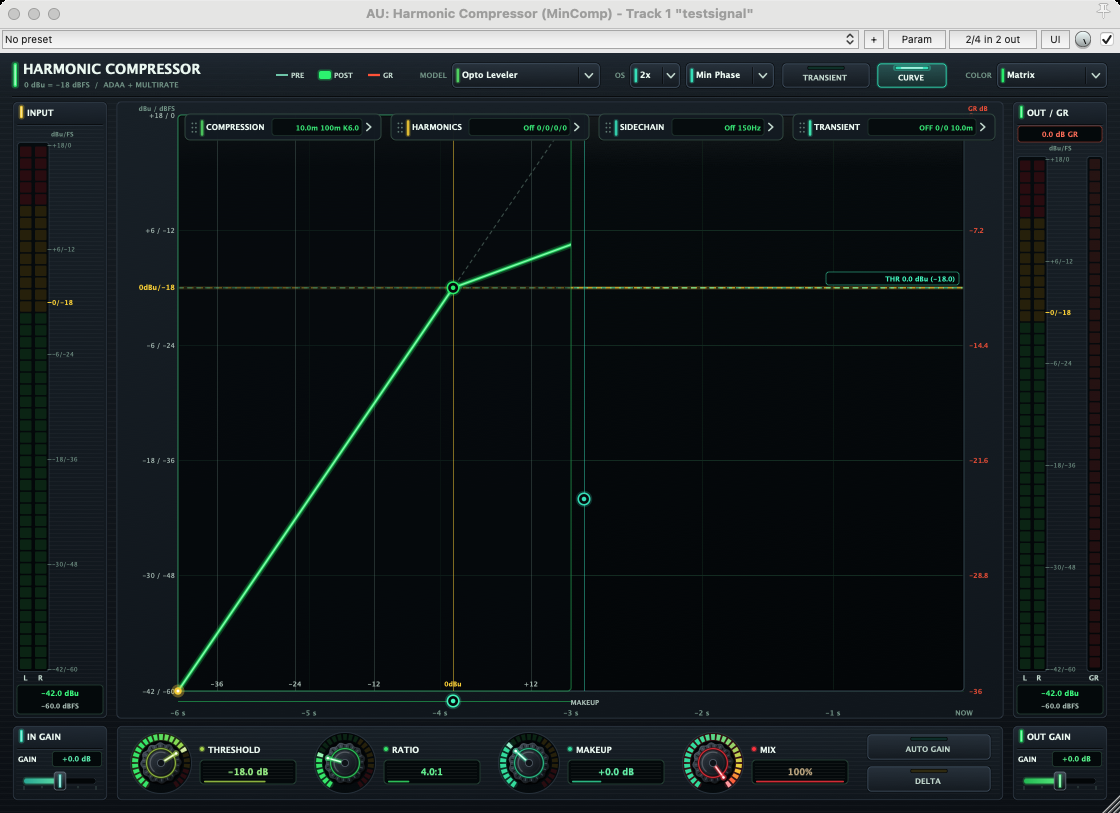
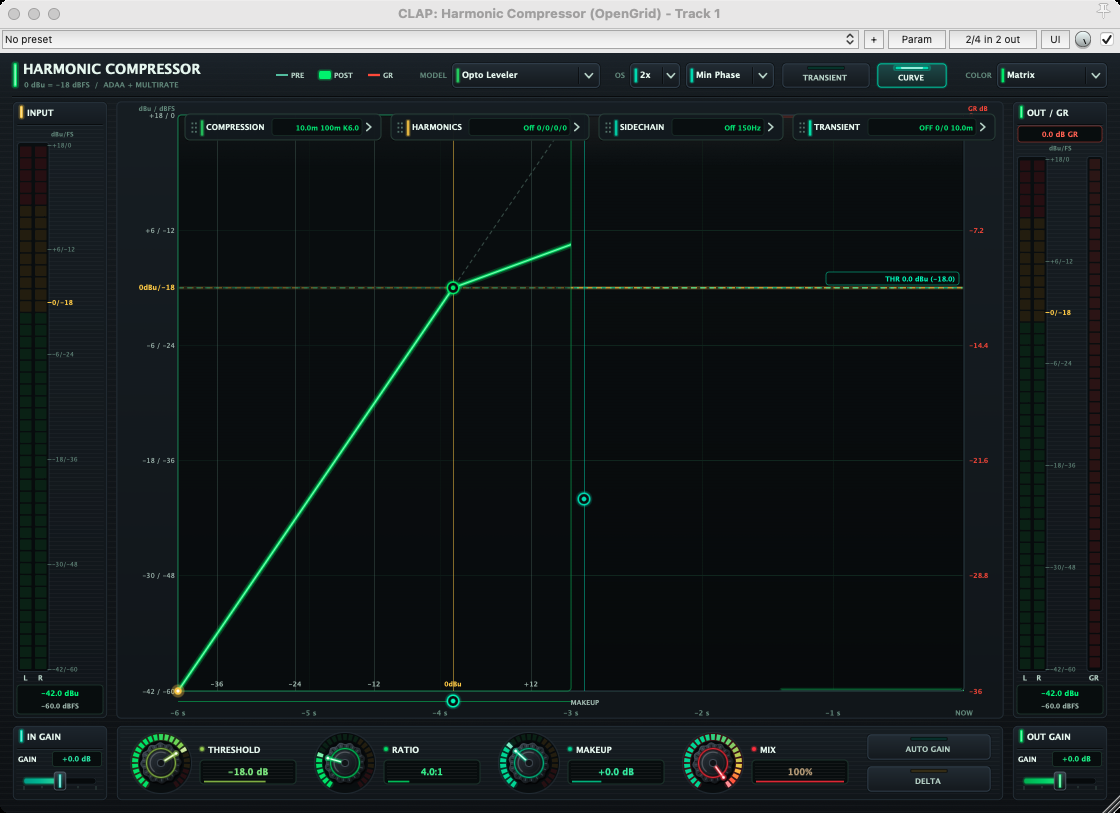
Manual: real REAPER capture of the shipped 1.5.3 CLAP
The host-window picture was the old frame with the new editor pasted in, so
its title still showed the former manufacturer name. It is now a hidden-window
capture of REAPER running the signed 1.5.3 CLAP. The 1.5.3 PDF and installer
keep the earlier picture.

diff --git a/qa/2026-11-23-docs-1.5.3/compose_doc_screenshots.py b/qa/2026-11-23-docs-1.5.3/compose_doc_screenshots.py
@@ -1,8 +1,8 @@
 #!/usr/bin/env python3
 """Put the 1.5.3 editor renders (DocScreenshotRender) into the user-manual pictures.
-soft-white and modules are full 2x editor renders and replace the pictures. In the theme grid and the
-host-window picture the whole editor is replaced in place; its position and scale are found by matching
-the IN GAIN panel, which did not change between versions.
+soft-white and modules are full 2x editor renders and replace the pictures. In the theme grid the whole
+editor is replaced in place; its position and scale are found by matching the IN GAIN panel, which did
+not change between versions. The REAPER picture is a real host-window capture (see the release ledger, R4).
 Usage: compose_doc_screenshots.py <render dir> <Docs dir> <out dir>"""
 import sys
 from pathlib import Path
@@ -57,10 +57,3 @@ for theme, (x0, y0) in enumerate([(25, 60), (1415, 60), (25, 1047), (1415, 1047)
     replace(grid, editor, ox, oy, s)
 grid.save(out / "harmonic-compressor-themes-grid.png", optimize=True)
 
-# Host window (1120x813): the editor at 1x below the host's title and toolbar.
-host = Image.open(docs / "harmonic-compressor-reaper.png").convert("RGB")
-ref = Image.open(renders / "editor-grid-0.png")  # Matrix theme at 2x, same IN GAIN panel
-e, ox, oy, s = locate(host, ref, [1.0], 0, 53, 8)
-print(f"reaper: origin {ox:.1f},{oy:.1f} error {e:.1f}")
-host.paste(Image.open(renders / "editor-reaper.png").convert("RGB"), (round(ox), round(oy)))
-host.save(out / "harmonic-compressor-reaper.png", optimize=True)

diff --git a/qa/2026-11-23-docs-1.5.3/doc_screenshots.cpp b/qa/2026-11-23-docs-1.5.3/doc_screenshots.cpp
@@ -78,7 +78,6 @@ int main (int argc, char** argv)
         { "grid-2",     2, -22.0f, 5.0f, 0.0f, 1.00f, 1, 0, false, true,  2.0f },
         { "grid-3",     3, -22.0f, 5.0f, 0.0f, 1.00f, 1, 0, false, true,  2.0f },
         { "modules",    1, -20.0f, 6.0f, 4.0f, 0.85f, 2, 1, true,  true,  2.0f },
-        { "reaper",     0, -18.0f, 4.0f, 0.0f, 1.00f, 1, 0, false, false, 1.0f },
     };
 
     for (const auto& s : shots)

diff --git a/qa/2026-11-17-release-1.5.3/ledger.md b/qa/2026-11-17-release-1.5.3/ledger.md
@@ -15,7 +15,7 @@ revisions: `build-env.txt`. Artifacts outside git (`dist/release-1.5.3/`).
 | R1 | Version 1.5.3 in VERSION, CMake project, bundle plists, README, manual | AU `CFBundleShortVersionString` 1.5.3; manual title and page footers | verified |
 | R2 | Release notes, README version and download section, GitHub release text | `RELEASE_NOTES.md`, `README.md`, `Docs/RELEASE_1.5.3.md` | verified |
 | R3 | Manual matches the code: stereo-linked models, per-model memory saved with the session, external sidechain, Knee Red only | `Docs/UserManual.md`; PDF rebuilt, all 7 pages looked at | verified |
-| R4 | Manual screenshots show the 1.5.3 curve (hard knee outside Red) | user decision 2026-11-23: re-render. `qa/2026-11-23-docs-1.5.3/doc_screenshots.cpp` (`DocScreenshotRender`) renders the four Opto Leveler pictures offscreen with live tone bursts; `compose_doc_screenshots.py` replaces the main and modules pictures and pastes the editor into the theme grid and the host-window picture (located by the unchanged IN GAIN panel). The host-window frame is the old capture, so its title still reads the former manufacturer name. Looked at each picture and the PDF pages | verified |
+| R4 | Manual screenshots show the 1.5.3 curve (hard knee outside Red) | user decision 2026-11-23: re-render. `qa/2026-11-23-docs-1.5.3/doc_screenshots.cpp` (`DocScreenshotRender`) renders the four Opto Leveler pictures offscreen with live tone bursts; `compose_doc_screenshots.py` replaces the main and modules pictures and pastes the editor into the theme grid and the host-window picture (located by the unchanged IN GAIN panel). The REAPER picture was replaced later the same day by a real capture of a hidden REAPER 7.80 window running the shipped 1.5.3 CLAP (signed bundle from the installer payload in the user folder; `lsof` showed that binary loaded), Opto Leveler, -18 dB, 4:1, 2x Min Phase, Matrix; its title now reads "CLAP: Harmonic Compressor (OpenGrid)". The 1.5.3 PDF and installer keep the earlier picture. Looked at each picture and the PDF pages | verified |
 | R5 | Universal binaries, min macOS 11.0, all five formats | `lipo -archs`, `vtool`: x86_64 arm64, minos 11.0 for VST3, AU, CLAP, LV2, AAX | verified |
 | R6 | CTest on the release build | `ctest.log`: 4/4 | verified |
 | R7 | Build warnings in project sources | `build.log`: none (all warnings are in JUCE and other dependencies) | verified |
@@ -27,7 +27,7 @@ revisions: `build-env.txt`. Artifacts outside git (`dist/release-1.5.3/`).
 | R13 | clap-validator 0.4.1 (payload) | `validators/clap-validator.log`: 44 run, 32 passed, 0 failed, 1 warning, 11 skipped (as 1.5.2) | verified |
 | R14 | AAX Validator 2024.6 (payload) | 6/6 PASS: describe_validation, parameters, parameter_traversal.random.fast, page_table.load, page_table.automation_list, load_unload. Output kept outside the repository (Avid SDK material) | verified |
 | R15 | auval, pluginval AU | on the same source (pre-version-bump build): `qa/2026-11-17-audit-fixes/auval.log`, `pluginval-au.log` SUCCESS. `validators/pluginval-au.log` (payload path) SUCCESS, but which installed copy the AU registry loaded was not confirmed | verified on the same source |
-| R16 | Host suites | same source: REAPER CLAP 9/9, LV2 8/9 (host state limit), OpenGrid9 AU under test code Hcmt PASS with editor checks skipped (`qa/2026-11-17-audit-fixes/`) | verified on the same source; REAPER AU unverified |
+| R16 | Host suites | same source: REAPER CLAP 9/9, LV2 8/9 (host state limit), OpenGrid9 AU under test code Hcmt PASS with editor checks skipped (`qa/2026-11-17-audit-fixes/`) | verified on the same source; REAPER AU unverified (needs the `/Library` copy replaced; the owner cancelled the password dialog on 2026-11-23) |
 | R17 | Manifest (schema 2) from the final stapled `.pkg` | `opengrid-manifest.json`: 24,569,321 bytes, SHA-256 71c24cf3e0a10f4c04a20298af0ca3faa3a19f740de8fb9407c94fb97cf925cd, universal, 11.0, modern, 5 installs | verified |
 | R18 | Commits as MistaMin, no assistant attribution lines | `git log --format='%an %ae%n%B'` | verified: GitHub author login MistaMin on all four commits |
 | R19 | No third-party product names in source | two comments in `CompressorCore.h` renamed | verified |

diff --git a/Docs/Release-1.5.3-QA.md b/Docs/Release-1.5.3-QA.md
@@ -22,7 +22,8 @@ Status: macOS 1.5.3 built and verified on 2026-11-17; installer rebuilt with the
 
 ## Not done
 
-- REAPER with the AU: on this machine REAPER loads the AU installed in `/Library` (an older version).
+- REAPER with the AU: on this machine REAPER loads the AU installed in `/Library` (an older version);
+  replacing it needs the admin password, and the dialog was cancelled on 2026-11-23.
 - Pro Tools interactive session, Logic, Studio One.
 - Windows and Linux builds (native machines required).
 - Plugin Manager site upload (`upload_release_binaries.sh`, run by the owner in their own Terminal).
